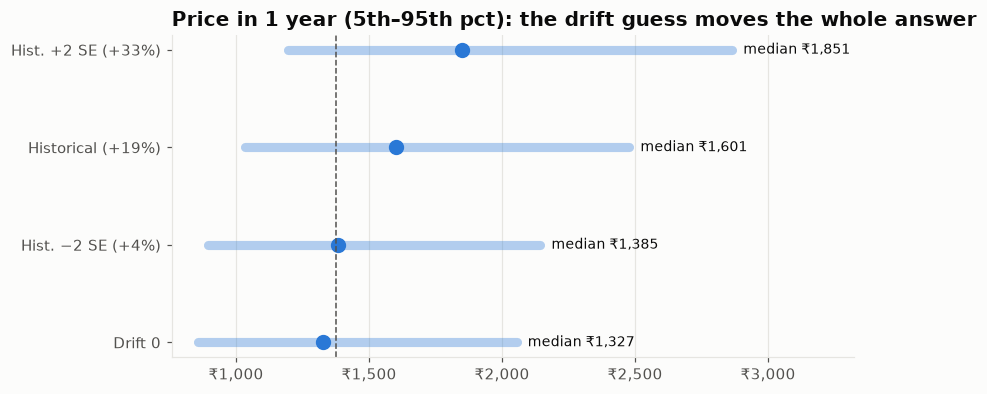
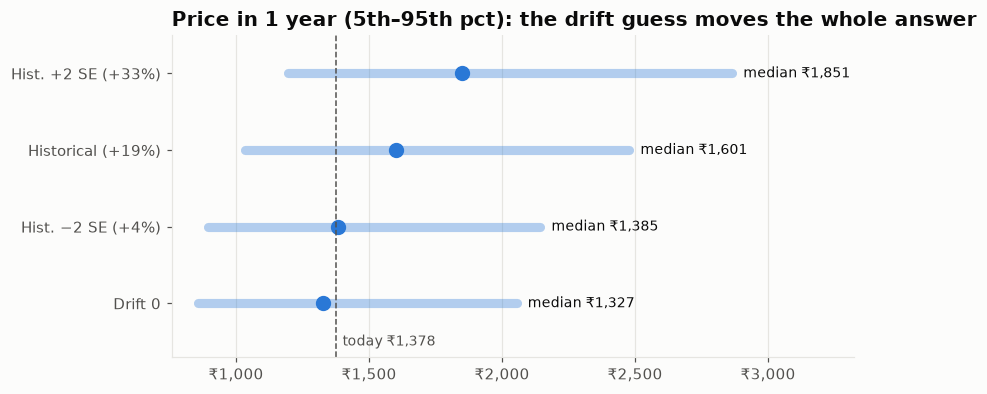
feat: animate README charts with a looping reveal
Every chart now also exports as a GIF: the data sweeps in left to right with
a strong ease-out, holds for 8 seconds so it can be read, sweeps back out and
loops. Axes and titles stay fixed so the layout never jumps. The README
serves the static PNG to readers who have reduced motion turned on.

diff --git a/src/mc/plots.py b/src/mc/plots.py
@@ -67,9 +67,100 @@ def label_line_end(ax, x, y, text: str, color: str) -> None:
     )
 
 
-def save(fig, out_dir: Path, name: str) -> Path:
+# Boomerang reveal for README GIFs: data sweeps in left to right, holds long enough to read,
+# sweeps back out faster, short pause, loop. Strong ease-out both ways (never ease-in).
+FPS = 25
+IN_FRAMES = 35  # 1.4 s
+OUT_FRAMES = 20  # 0.8 s
+HOLD_MS = 8000
+PAUSE_MS = 300
+FRAME_MS = 1000 // FPS
+LOOP_MS = (IN_FRAMES + OUT_FRAMES) * FRAME_MS + HOLD_MS + PAUSE_MS
+GIF_DPI = 90
+_EASE = (0.23, 1.0, 0.32, 1.0)  # cubic-bezier(0.23, 1, 0.32, 1)
+
+
+def ease_out(p: float) -> float:
+    """Strong ease-out: cubic-bezier(0.23, 1, 0.32, 1) evaluated at progress p in [0, 1]."""
+    if p <= 0:
+        return 0.0
+    if p >= 1:
+        return 1.0
+    x1, y1, x2, y2 = _EASE
+
+    def bez(t, a, b):
+        return 3 * (1 - t) ** 2 * t * a + 3 * (1 - t) * t**2 * b + t**3
+
+    lo, hi = 0.0, 1.0
+    for _ in range(40):  # solve x(t) = p
+        mid = (lo + hi) / 2
+        if bez(mid, x1, x2) < p:
+            lo = mid
+        else:
+            hi = mid
+    return bez((lo + hi) / 2, y1, y2)
+
+
+def _frame(fig, bbox):
+    from io import BytesIO
+
+    from PIL import Image
+
+    buf = BytesIO()
+    fig.savefig(buf, format="png", dpi=GIF_DPI, bbox_inches=bbox)
+    buf.seek(0)
+    return Image.open(buf).convert("RGB")
+
+
+def _save_gif(fig, path: Path) -> None:
+    from matplotlib.transforms import Bbox, TransformedBbox
+    from PIL import Image
+
+    # Crop every frame to the finished chart's tight box, same as the PNG (stable frame size).
+    bbox = fig.get_tightbbox(fig.canvas.get_renderer()).padded(0.1)
+    clips, texts = [], []
+    for ax in fig.axes:
+        # A live clip box in axes coordinates; widening it reveals the data left to right.
+        box = Bbox([[0, 0], [0, 1]])
+        clip = TransformedBbox(box, ax.transAxes)
+        for art in [*ax.lines, *ax.collections, *ax.patches, *ax.images]:
+            art.set_clip_box(clip)
+            art.set_clip_on(True)
+        clips.append(box)
+        texts += [(t, t.get_alpha() if t.get_alpha() is not None else 1.0) for t in ax.texts]
+
+    def at(progress: float):
+        for box in clips:
+            box.x1 = max(progress, 1e-6)
+        fade = min(max((progress - 0.8) / 0.2, 0.0), 1.0)  # labels fade in over the last 20%
+        for t, alpha in texts:
+            t.set_alpha(alpha * fade)
+            if getattr(t, "arrow_patch", None) is not None:
+                t.arrow_patch.set_alpha(alpha * fade)
+            if t.get_bbox_patch() is not None:
+                t.get_bbox_patch().set_alpha(fade)
+        return _frame(fig, bbox)
+
+    frames = [at(ease_out(i / IN_FRAMES)) for i in range(1, IN_FRAMES + 1)]
+    durations = [FRAME_MS] * IN_FRAMES
+    frames.append(at(1.0))
+    durations.append(HOLD_MS)
+    frames += [at(1 - ease_out(i / OUT_FRAMES)) for i in range(1, OUT_FRAMES + 1)]
+    durations += [FRAME_MS] * OUT_FRAMES
+    frames.append(at(0.0))
+    durations.append(PAUSE_MS)
+    palette = frames[IN_FRAMES].quantize(colors=255, method=Image.Quantize.MEDIANCUT)
+    frames = [f.quantize(palette=palette, dither=Image.Dither.NONE) for f in frames]
+    frames[0].save(path, save_all=True, append_images=frames[1:], duration=durations, loop=0,
+                   optimize=True, disposal=1)
+
+
+def save(fig, out_dir: Path, name: str, animate: bool = True) -> Path:
+    """Save a PNG, plus an animated GIF version for the README unless animate=False."""
     out_dir.mkdir(parents=True, exist_ok=True)
     path = out_dir / f"{name}.png"
     fig.savefig(path, bbox_inches="tight")
+    if animate:
+        _save_gif(fig, out_dir / f"{name}.gif")
     plt.close(fig)
     return path

diff --git a/tests/test_plots.py b/tests/test_plots.py
@@ -1,0 +1,41 @@
+import matplotlib.pyplot as plt
+import numpy as np
+from PIL import Image
+
+from mc import plots
+
+
+def test_ease_out_endpoints_and_monotonic():
+    p = np.linspace(0, 1, 101)
+    v = [plots.ease_out(x) for x in p]
+    assert v[0] == 0 and abs(v[-1] - 1) < 1e-9
+    assert all(b >= a for a, b in zip(v, v[1:], strict=False))
+    assert plots.ease_out(0.2) > 0.5  # strong ease-out: most of the motion happens early
+
+
+def test_save_writes_png_and_looping_boomerang_gif(tmp_path):
+    plots.style()
+    fig, ax = plt.subplots()
+    ax.plot([0, 1, 2], [1, 3, 2])
+    ax.annotate("label", (2, 2))
+    png = plots.save(fig, tmp_path, "demo")
+    gif = tmp_path / "demo.gif"
+    assert png.exists() and gif.exists()
+    with Image.open(gif) as im:
+        assert im.info.get("loop") == 0
+        n = im.n_frames
+        durations = []
+        for i in range(n):
+            im.seek(i)
+            durations.append(im.info["duration"])
+    # Identical consecutive frames (the tail of the ease-out) are merged, durations summed.
+    assert 10 < n <= plots.IN_FRAMES + 1 + plots.OUT_FRAMES + 1
+    assert max(durations) >= plots.HOLD_MS
+    assert abs(sum(durations) - plots.LOOP_MS) <= 10 * n
+
+
+def test_save_can_skip_animation(tmp_path):
+    fig, ax = plt.subplots()
+    ax.plot([0, 1], [0, 1])
+    plots.save(fig, tmp_path, "still", animate=False)
+    assert not (tmp_path / "still.gif").exists()

diff --git a/src/mc/reports.py b/src/mc/reports.py
@@ -290,7 +290,8 @@ def report_gbm(out_dir: Path) -> dict:
         key = ["zero", "minus2se", "hist", "plus2se"][i]
         result[f"drift_{key}_p5_p50_p95"] = f"{lo:,.0f} / {med:,.0f} / {hi:,.0f}"
     ax.axvline(s0, color=plots.TEXT_2, lw=1, ls="--")
-    ax.annotate(f"today ₹{s0:,.0f}", (s0, len(cases) - 0.55), xytext=(4, 0),
+    ax.set_ylim(-0.7, len(cases) - 0.5)
+    ax.annotate(f"today ₹{s0:,.0f}", (s0, -0.55), xytext=(4, 0),
                 textcoords="offset points", fontsize=9, color=plots.TEXT_2)
     ax.set_yticks(range(len(cases)), [c[0] for c in cases])
     ax.xaxis.set_major_formatter(plt.FuncFormatter(_rupees))

diff --git a/README.md b/README.md
@@ -6,7 +6,7 @@ A Monte Carlo risk engine for Indian equities. It simulates price paths for sing
 
 > Monte Carlo gives a range of outcomes under a model's assumptions. It is not a price forecast. That is why every model here is validated walk-forward before it's used.
 
-![Simulated price paths](docs/img/gbm-fan.png)
+<picture><source media="(prefers-reduced-motion: reduce)" srcset="docs/img/gbm-fan.png"><img src="docs/img/gbm-fan.gif" alt="Simulated price paths"></picture>
 
 ## Features
 
@@ -26,8 +26,8 @@ A Monte Carlo risk engine for Indian equities. It simulates price paths for sing
 The 5 stocks show 9 one-day drops of 31–51% in raw prices. Every one is a split or bonus issue, not a loss. A data source that missed one ITC bonus reports 0.9%/yr; the real figure is 6.9%/yr. The pipeline flags any adjusted one-day drop over 20%.
 
 <table><tr>
-<td><img src="docs/img/data-raw-vs-adjusted.png" alt="Raw vs adjusted price around a split"></td>
-<td><img src="docs/img/data-growth-of-1-lakh.png" alt="Growth of ₹1 lakh since 2013"></td>
+<td><picture><source media="(prefers-reduced-motion: reduce)" srcset="docs/img/data-raw-vs-adjusted.png"><img src="docs/img/data-raw-vs-adjusted.gif" alt="Raw vs adjusted price around a split"></picture></td>
+<td><picture><source media="(prefers-reduced-motion: reduce)" srcset="docs/img/data-growth-of-1-lakh.png"><img src="docs/img/data-growth-of-1-lakh.gif" alt="Growth of ₹1 lakh since 2013"></picture></td>
 </tr></table>
 
 ### 2. Real returns have fat tails, and √time only holds short-term
@@ -35,19 +35,19 @@ The 5 stocks show 9 one-day drops of 31–51% in raw prices. Every one is a spli
 Under a normal distribution, a day beyond 4σ should happen about 0.2 times in 14 years. Each stock had 16–22. Scaling daily volatility by √days matches realised volatility to within ~5% up to 1 month, but overstates it by 5–30% at 3–12 months.
 
 <table><tr>
-<td><img src="docs/img/returns-vs-normal.png" alt="Daily returns vs the normal curve"></td>
-<td><img src="docs/img/returns-sqrt-time.png" alt="Square-root-of-time check"></td>
+<td><picture><source media="(prefers-reduced-motion: reduce)" srcset="docs/img/returns-vs-normal.png"><img src="docs/img/returns-vs-normal.gif" alt="Daily returns vs the normal curve"></picture></td>
+<td><picture><source media="(prefers-reduced-motion: reduce)" srcset="docs/img/returns-sqrt-time.png"><img src="docs/img/returns-sqrt-time.gif" alt="Square-root-of-time check"></picture></td>
 </tr></table>
 
 ### 3. The historical mean return is not a forecast
 
 RELIANCE's 13.6-year drift is 18.7%/yr ± 7.3% (1 standard error). Plausible drifts move the median 1-year price from ₹1,327 to ₹1,851, so risk simulations default to zero drift. Even at zero drift, 55% of paths end below today's price (volatility drag). Antithetic sampling cuts the error of the simulated mean 3–5× at the same path count.
 
-![Drift uncertainty](docs/img/gbm-drift-uncertainty.png)
+<picture><source media="(prefers-reduced-motion: reduce)" srcset="docs/img/gbm-drift-uncertainty.png"><img src="docs/img/gbm-drift-uncertainty.gif" alt="Drift uncertainty"></picture>
 
 <table><tr>
-<td><img src="docs/img/gbm-mean-vs-median.png" alt="Mean vs median final price"></td>
-<td><img src="docs/img/gbm-paths-needed.png" alt="Error vs number of paths"></td>
+<td><picture><source media="(prefers-reduced-motion: reduce)" srcset="docs/img/gbm-mean-vs-median.png"><img src="docs/img/gbm-mean-vs-median.gif" alt="Mean vs median final price"></picture></td>
+<td><picture><source media="(prefers-reduced-motion: reduce)" srcset="docs/img/gbm-paths-needed.png"><img src="docs/img/gbm-paths-needed.gif" alt="Error vs number of paths"></picture></td>
 </tr></table>
 
 ### 4. VaR hides the tail; CVaR doesn't
@@ -55,8 +55,8 @@ RELIANCE's 13.6-year drift is 18.7%/yr ± 7.3% (1 standard error). Plausible dri
 On ₹1 lakh of RELIANCE over 1 month, historical VaR 95% (₹10.1k) looks safer than the GBM model's (₹12.1k). Yet the historical average loss in the worst 1% of months is ₹22.6k, against the model's ₹18.8k. Stop-losses trigger on touches: a −10% level is touched within 3 months 41% of the time but is still breached at the end only 24% of the time.
 
 <table><tr>
-<td><img src="docs/img/risk-var-cvar.png" alt="VaR and CVaR, model vs history"></td>
-<td><img src="docs/img/risk-touch-vs-end.png" alt="Touch vs end probabilities"></td>
+<td><picture><source media="(prefers-reduced-motion: reduce)" srcset="docs/img/risk-var-cvar.png"><img src="docs/img/risk-var-cvar.gif" alt="VaR and CVaR, model vs history"></picture></td>
+<td><picture><source media="(prefers-reduced-motion: reduce)" srcset="docs/img/risk-touch-vs-end.png"><img src="docs/img/risk-touch-vs-end.gif" alt="Touch vs end probabilities"></picture></td>
 </tr></table>
 
 ### 5. A model can pass at 90% and fail at 99%
@@ -64,8 +64,8 @@ On ₹1 lakh of RELIANCE over 1 month, historical VaR 95% (₹10.1k) looks safer
 This is a walk-forward test over 2016–2026: 2,636 one-month forecasts per stock, each made using only the 3 years before it. GBM's 90% band holds (90–93% coverage). Its 99% band is breached 2–3× too often, and up to 3.5× on the downside. Its sense of risk also lags: coverage fell to ~70% in 2020 and sat near 100% in 2021–23. Using only prior data, it rated NIFTY's Feb–Mar 2020 month (−37%) at 1 in 10³⁹.
 
 <table><tr>
-<td><img src="docs/img/validate-coverage.png" alt="Rolling coverage of the 90% band"></td>
-<td><img src="docs/img/validate-worst-months.png" alt="Model odds of the worst real months"></td>
+<td><picture><source media="(prefers-reduced-motion: reduce)" srcset="docs/img/validate-coverage.png"><img src="docs/img/validate-coverage.gif" alt="Rolling coverage of the 90% band"></picture></td>
+<td><picture><source media="(prefers-reduced-motion: reduce)" srcset="docs/img/validate-worst-months.png"><img src="docs/img/validate-worst-months.gif" alt="Model odds of the worst real months"></picture></td>
 </tr></table>
 
 ### 6. Only the block bootstrap gets the depth of a bad month right
@@ -77,8 +77,8 @@ Resampling single days (plain bootstrap) barely beats GBM. Over a month, indepen
 No model fixes the walk-forward 99% misses. Those come from volatility regime shifts, not the shape of the distribution.
 
 <table><tr>
-<td><img src="docs/img/models-tail.png" alt="Tail depth per model"></td>
-<td><img src="docs/img/models-coverage.png" alt="Walk-forward 99% coverage per model"></td>
+<td><picture><source media="(prefers-reduced-motion: reduce)" srcset="docs/img/models-tail.png"><img src="docs/img/models-tail.gif" alt="Tail depth per model"></picture></td>
+<td><picture><source media="(prefers-reduced-motion: reduce)" srcset="docs/img/models-coverage.png"><img src="docs/img/models-coverage.gif" alt="Walk-forward 99% coverage per model"></picture></td>
 </tr></table>
 
 ## Quick start
